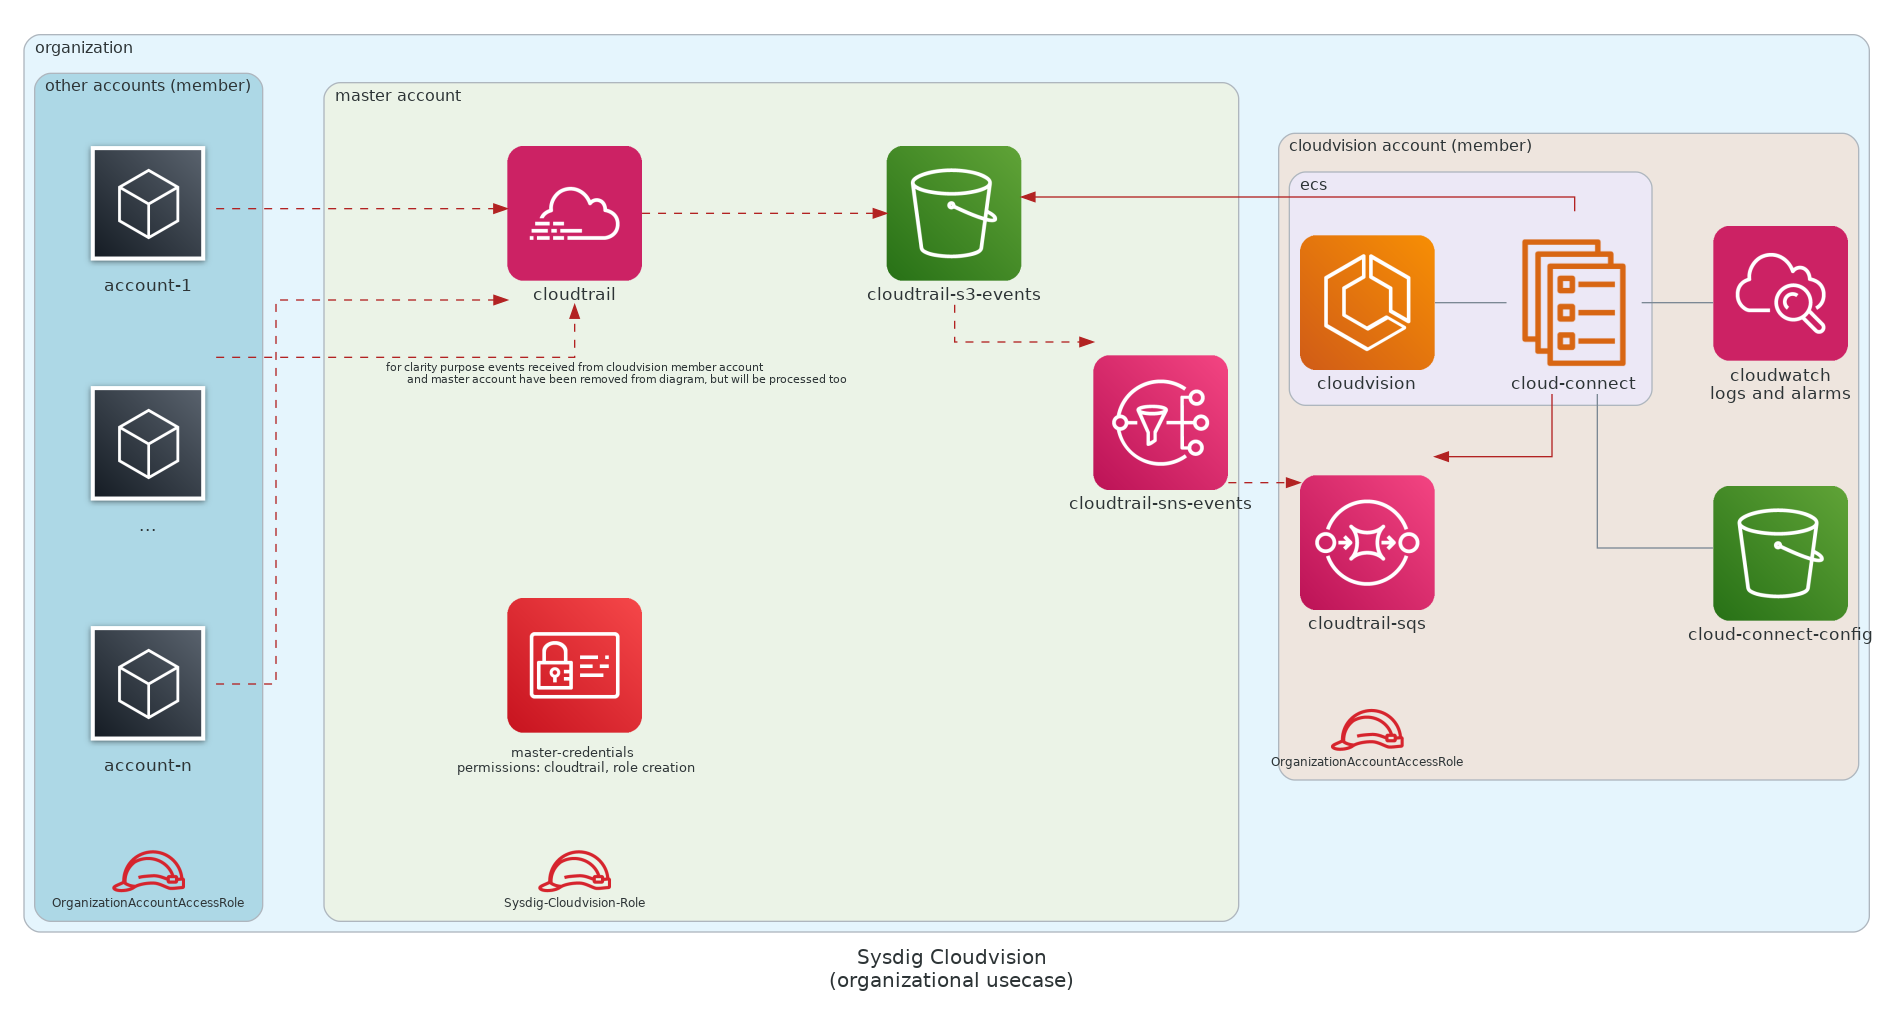
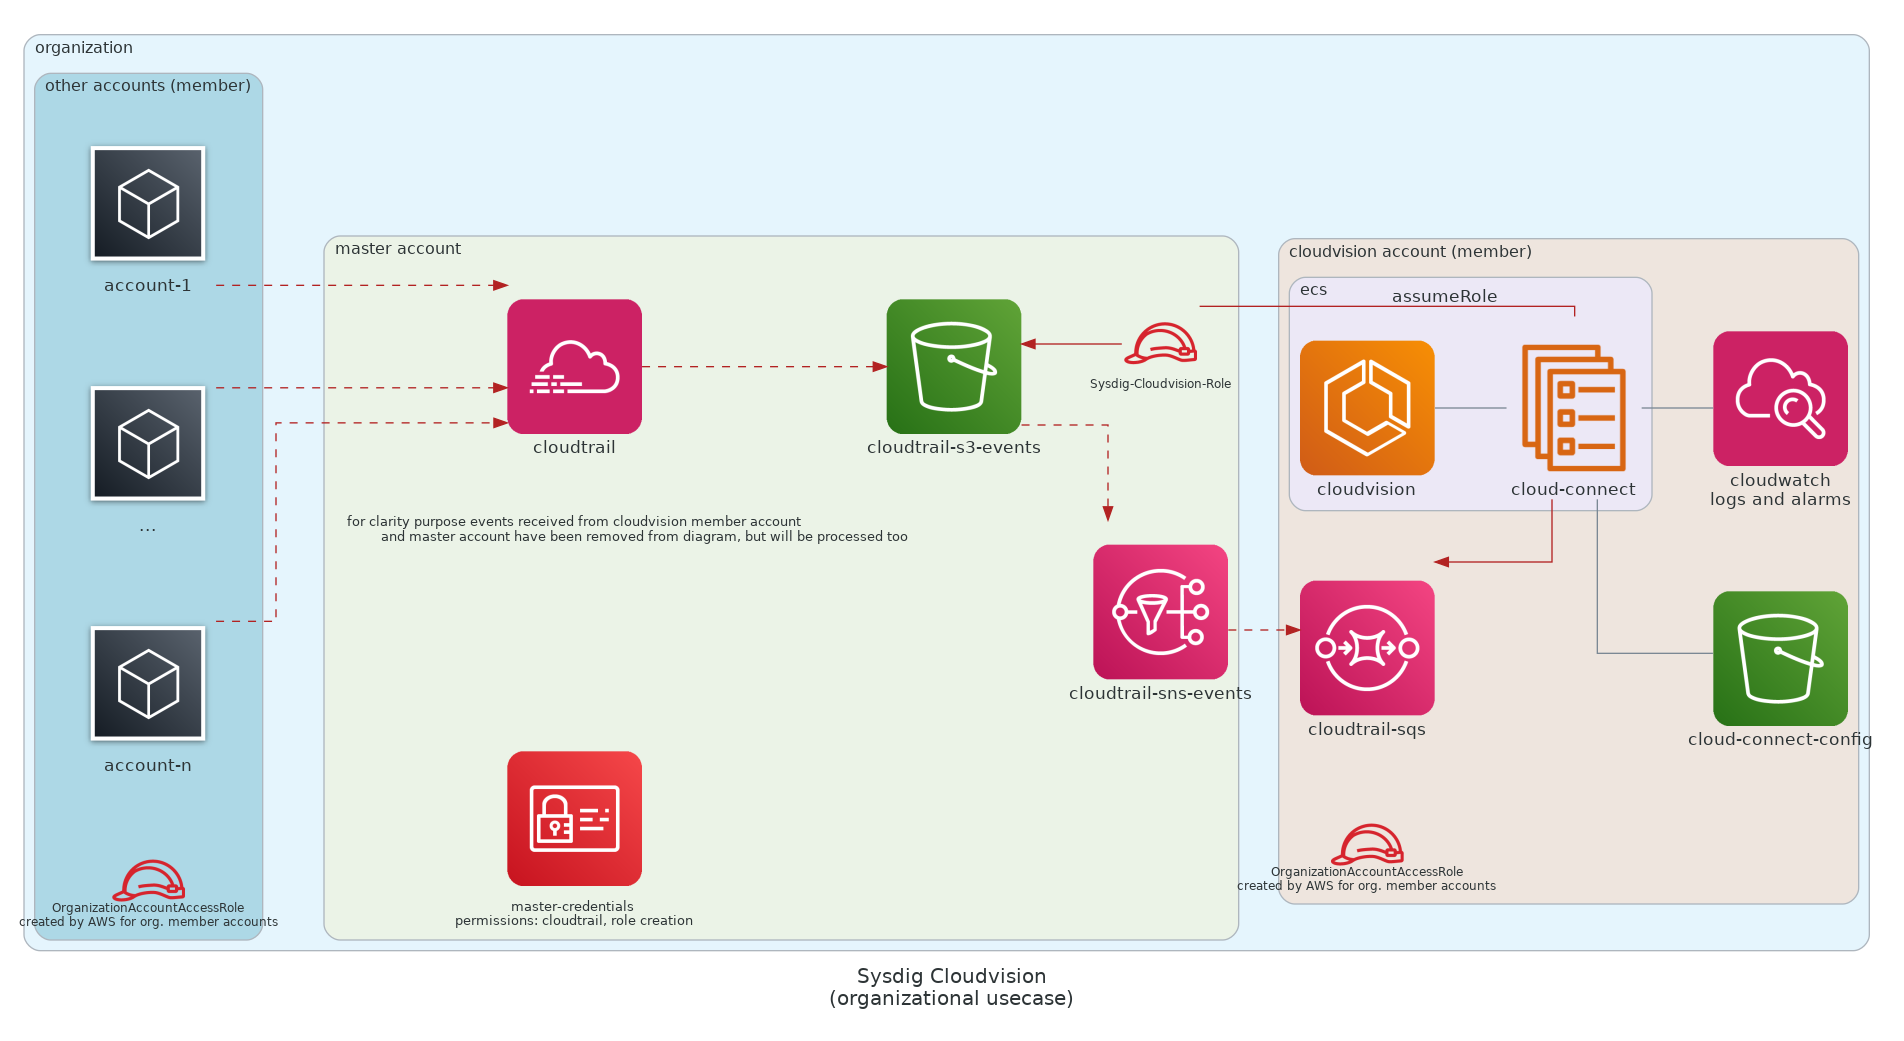
chore: update diagram

diff --git a/examples/organizational_cloudvision/diagram.py b/examples/organizational_cloudvision/diagram.py
@@ -15,7 +15,7 @@ diagram_attr = {
 }
 
 role_attr = {
-   "height":"0.8",
+   "height":"1",
    "width":"0.8",
    "fontsize":"9",
 }
@@ -29,7 +29,7 @@ with Diagram("Sysdig Cloudvision{}(organizational usecase)".format("\n"), graph_
         with Cluster("other accounts (member)", graph_attr={"bgcolor":"lightblue"}):
             member_accounts = [General("account-1"),General("..."),General("account-n")]
 
-            org_member_role = IAMRole("OrganizationAccountAccessRole", **role_attr)
+            org_member_role = IAMRole("OrganizationAccountAccessRole\ncreated by AWS for org. member accounts", **role_attr)
 
 
         with Cluster("master account"):
@@ -38,10 +38,10 @@ with Diagram("Sysdig Cloudvision{}(organizational usecase)".format("\n"), graph_
             cloudtrail          = Cloudtrail("cloudtrail", shape="plaintext")
             cloudtrail_legend = ("for clarity purpose events received from cloudvision member account\n\
                                     and master account have been removed from diagram, but will be processed too ")
-            Node(label=cloudtrail_legend, width="5",shape="plaintext", labelloc="t", fontsize="8")
+            Node(label=cloudtrail_legend, width="5",shape="plaintext", labelloc="t", fontsize="10")
 
 
-            master_credentials = IAM("master-credentials \n permissions: cloudtrail, role creation", fontsize="10")
+            master_credentials = IAM("master-credentials \npermissions: cloudtrail, role creation", fontsize="10")
             cloudvision_role    = IAMRole("Sysdig-Cloudvision-Role", **role_attr)
             cloudtrail_s3       = S3("cloudtrail-s3-events")
             sns                 = SNS("cloudtrail-sns-events", comment="i'm a graph")
@@ -50,7 +50,7 @@ with Diagram("Sysdig Cloudvision{}(organizational usecase)".format("\n"), graph_
 
         with Cluster("cloudvision account (member)", graph_attr={"bgcolor":"seashell2"}):
 
-            org_member_role = IAMRole("OrganizationAccountAccessRole", **role_attr) 
+            org_member_role = IAMRole("OrganizationAccountAccessRole\ncreated by AWS for org. member accounts", **role_attr) 
 
             with Cluster("ecs"):
                 ecs = ECS("cloudvision")
@@ -68,4 +68,5 @@ with Diagram("Sysdig Cloudvision{}(organizational usecase)".format("\n"), graph_
 
         member_accounts >> Edge(color=event_color, style="dashed") >>  cloudtrail
         sns >> Edge(color=event_color, style="dashed") >> sqs
-        cloudtrail_s3 << Edge(color=event_color) << cloud_connect
+#        cloudtrail_s3 << Edge(color=event_color) << cloud_connect
+        (cloudtrail_s3 << Edge(color=event_color) << cloudvision_role) -  Edge(xlabel="assumeRole", color=event_color) - cloud_connect
